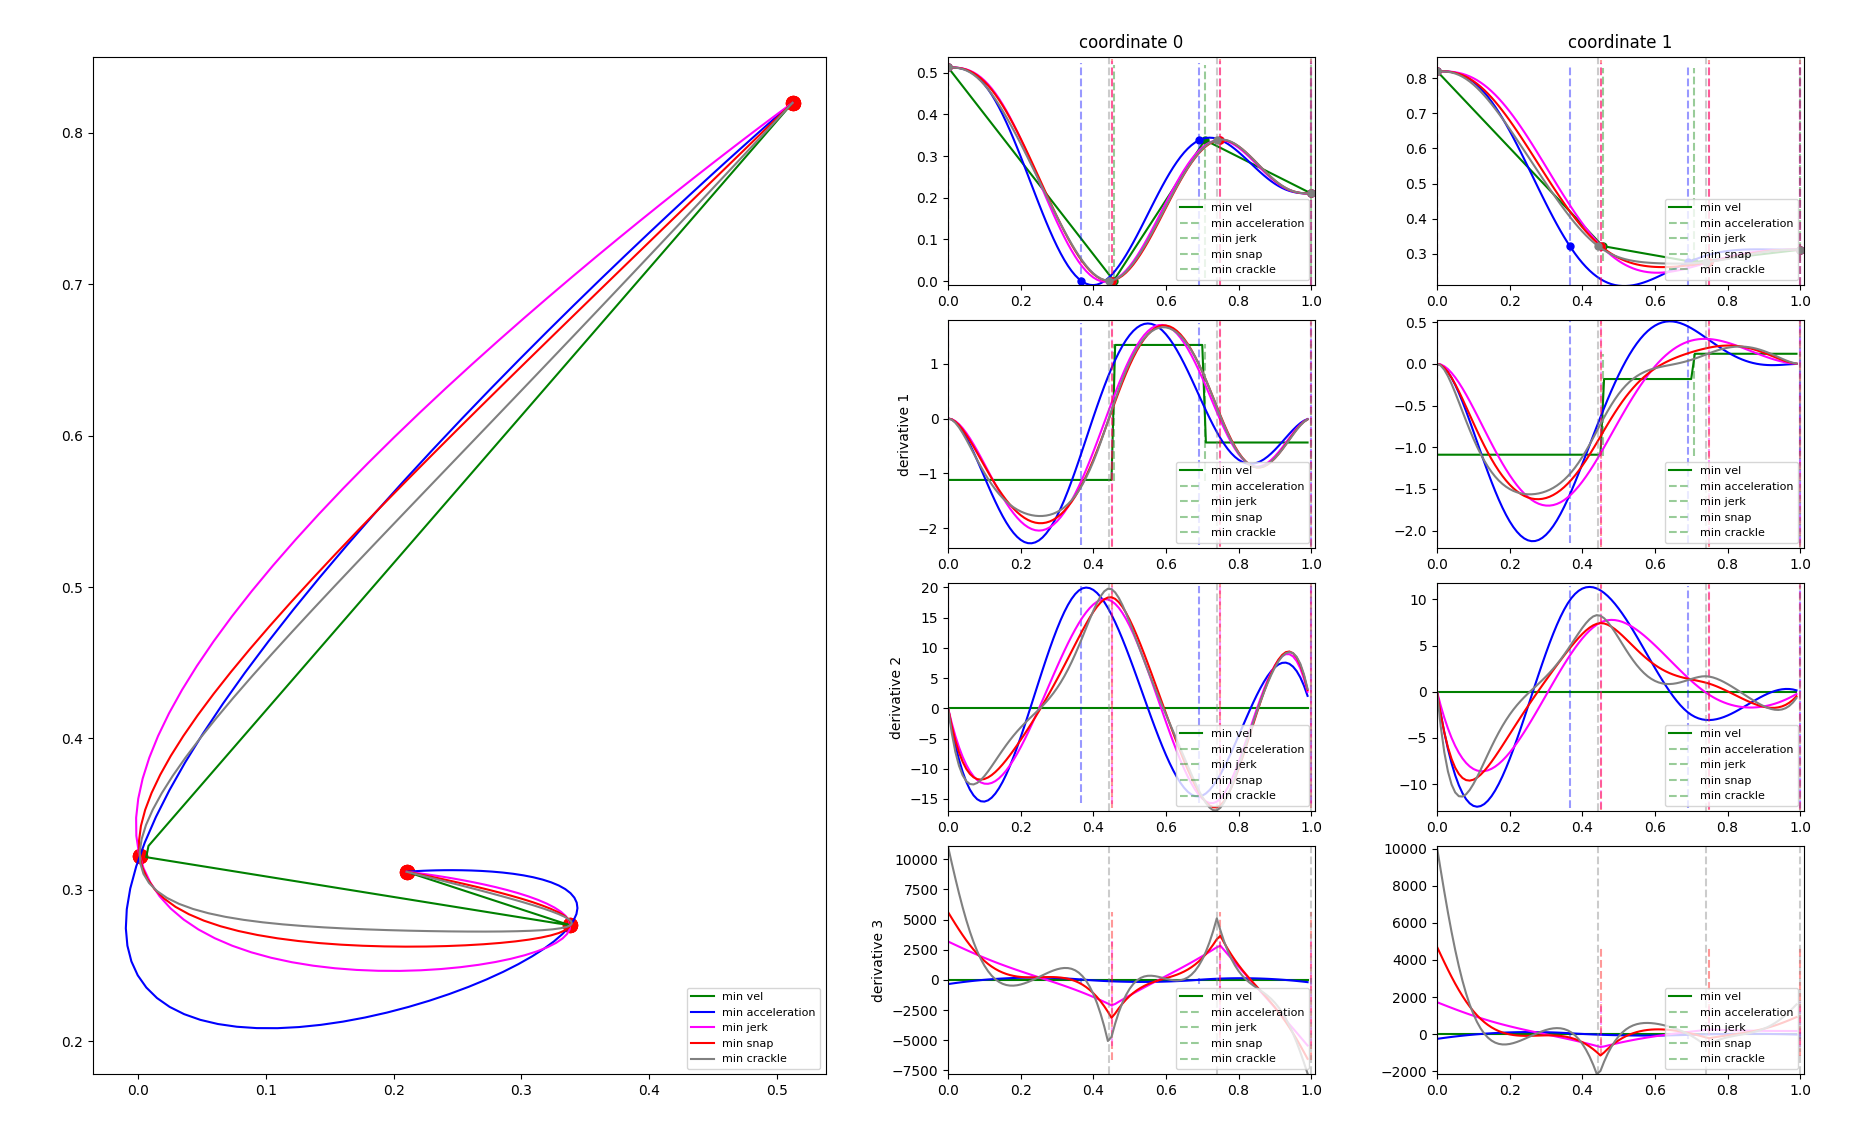
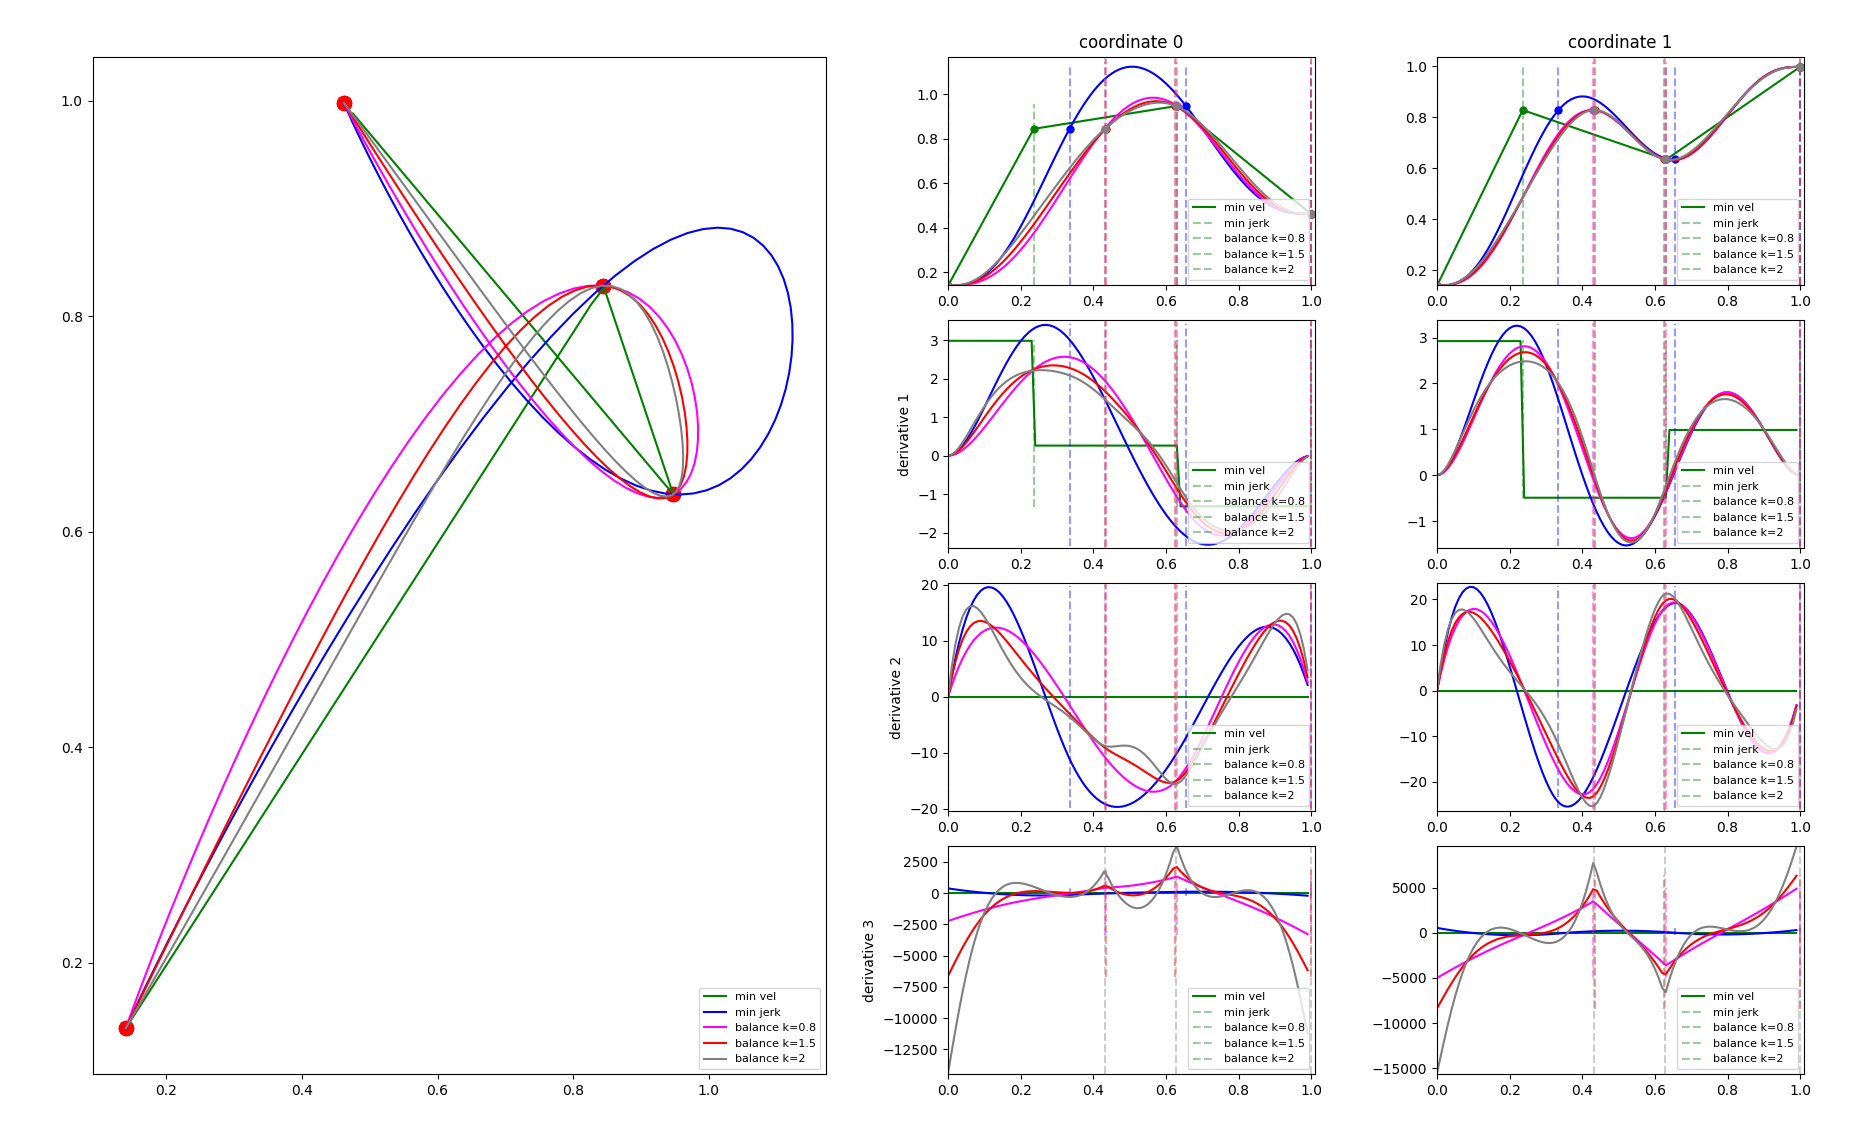
fixes

diff --git a/05_optimization.tex b/05_optimization.tex
@@ -53,18 +53,18 @@ plot2d_compare([c1, c2, c3, c4, c5], [
 
 waypoints = np.random.rand(4, 2)
 
-c1 = broken_lines_path(waypoints)
-c2 = minimum_acceleration_path(waypoints)
-c3 = minimum_jerk_path(waypoints)
-c4 = minimum_snap_path(waypoints)
-c5 = minimum_crackle_path(waypoints)
+c1 = gsplines.optimization.broken_lines_path(waypoints)
+c3 = gsplines.optimization.minimum_jerk_path(waypoints)
+c4 = gsplines.optimization.rojas_path(waypoints, 0.8)
+c5 = gsplines.optimization.rojas_path(waypoints, 1.5)
+c6 = gsplines.optimization.rojas_path(waypoints, 2)
 
-plot2d_compare([c1, c2, c3, c4, c5], [
-            'green', 'blue', 'magenta', 'red', 'black'],
-            ['min vel', 'min acceleration', 'min jerk',
-            'min snap', 'min crackle'])
-
-    \end{lstlisting}
+gsplines.plot.plot2d_compare([c1, c3, c4, c5, c6], [
+            'green', 'blue', 'magenta', 'red',
+            'gray'],
+            ['min vel', 'min jerk', 'balance k=0.8',
+            'balance k=1.5', 'balance k=2'])
+\end{lstlisting}
 		\end{column}
 		\begin{column}{0.6\textwidth}
 			\includegraphics[width=\textwidth]{./images/comparison_2.png}
